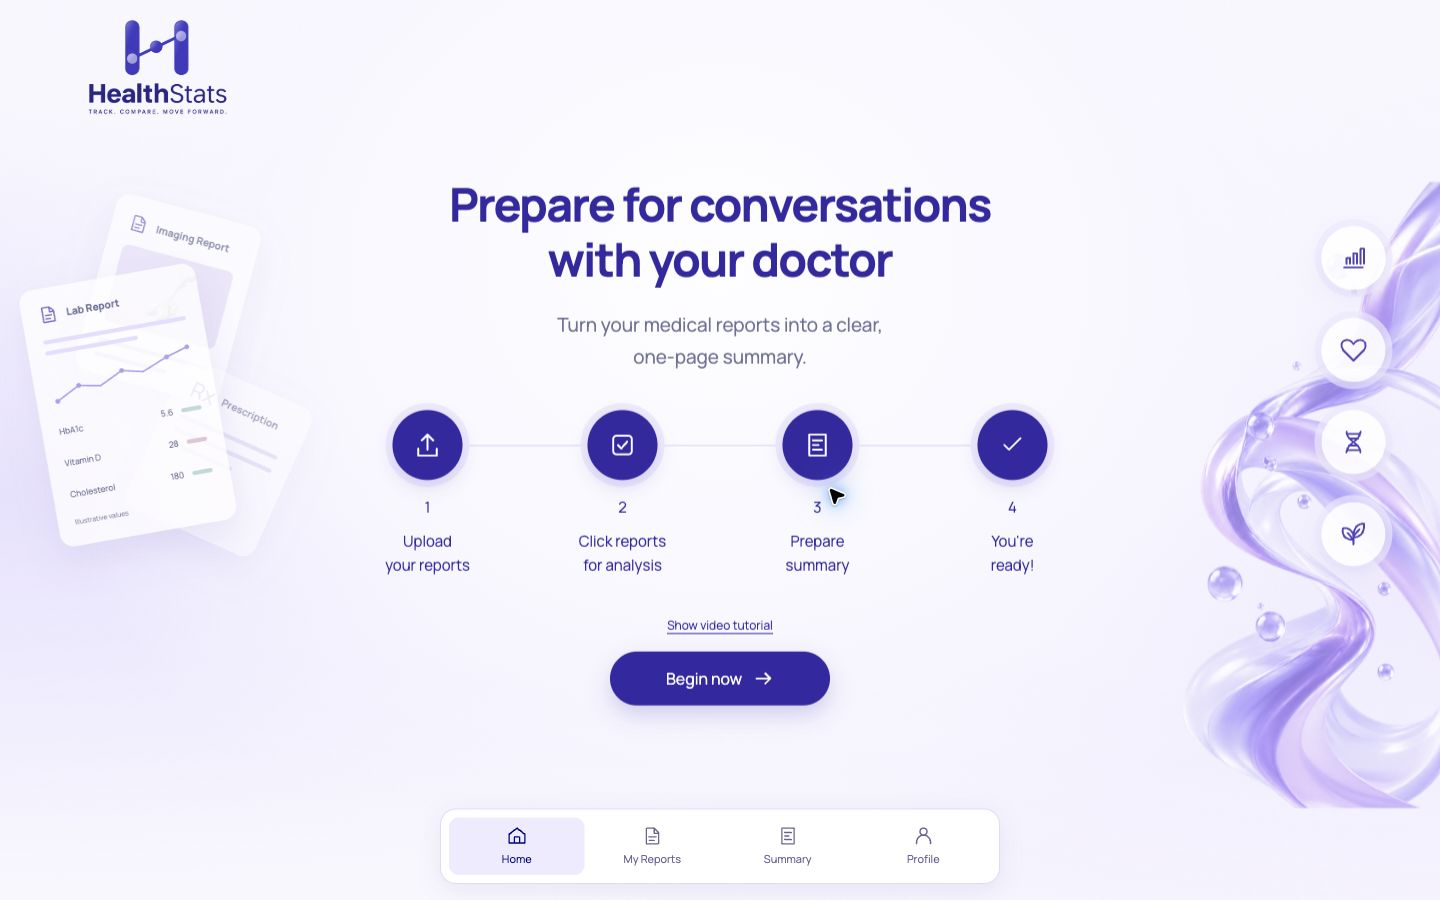
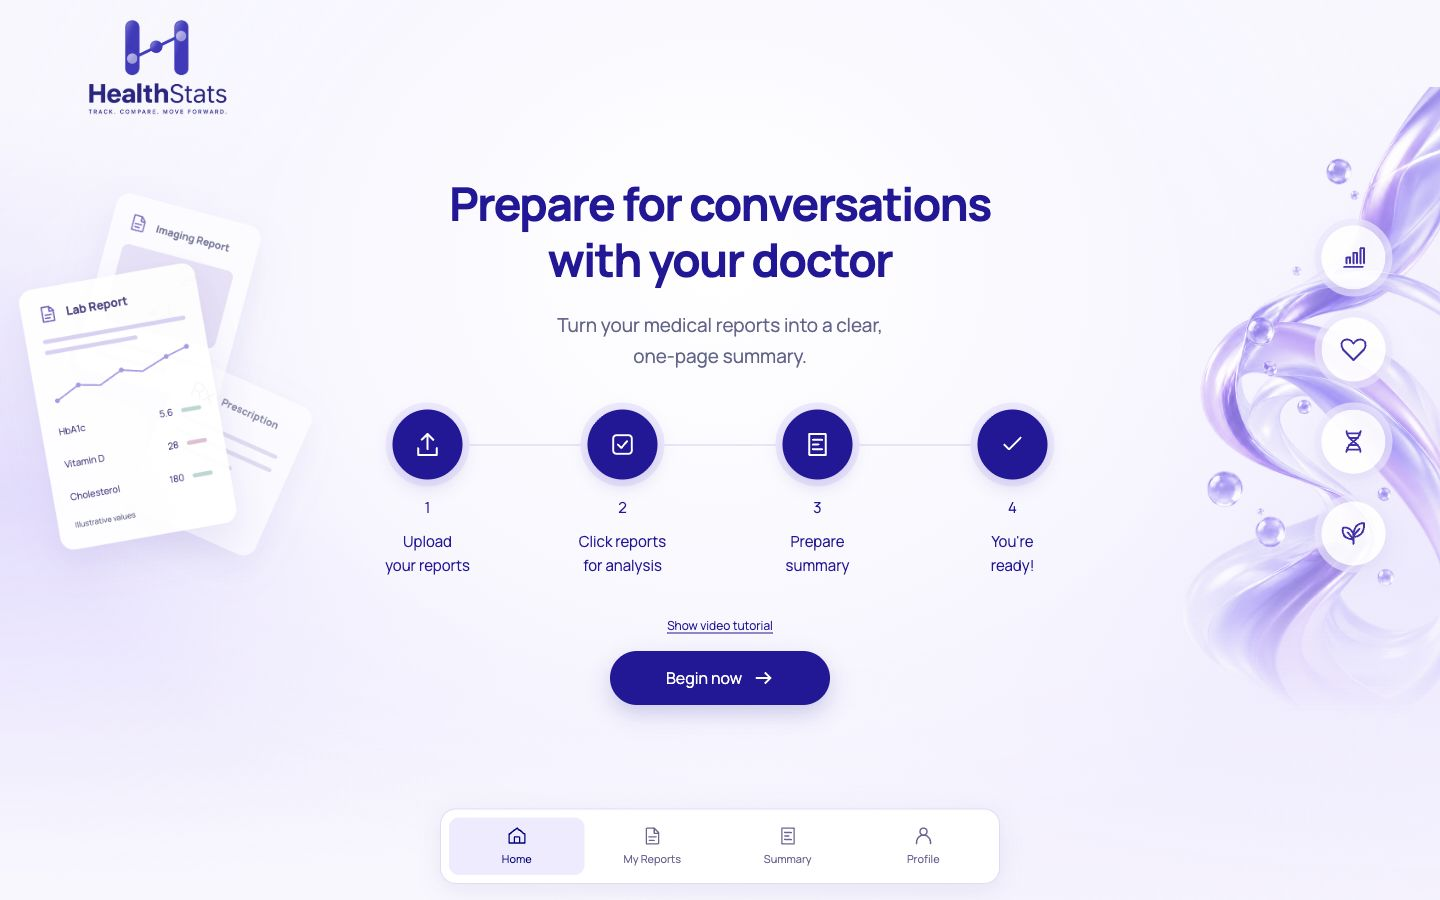
Clarify floating reports and soften the ribbon edge

diff --git a/src/home.css b/src/home.css
@@ -244,3 +244,14 @@ body:has(#home-view:not([hidden])){min-height:100vh}
  .home-resting-copy>p{font-size:19px;line-height:1.65}
  .home-journey{margin-top:38px}
 }
+/* Decorative report details stay readable; fade the image itself, not its slot. */
+.home-floating-lab{background:rgb(255 255 255 / 94%);color:#514689}
+.home-floating-lab header strong{font-size:14px}
+.home-decor-results>div{font-size:11px}
+.home-floating-lab small{color:#62658c;opacity:1;font-size:9px}
+.home-floating-imaging{opacity:.85}
+.home-floating-prescription{opacity:.72}
+.home-floating-lab .home-paper-lines i{background:#d9d1f4}
+@media(min-width:1280px){
+ .home-ribbon-art{position:absolute;top:0;right:0;width:100%;height:auto;object-fit:contain;opacity:.86;mask-image:linear-gradient(to bottom,#000 0%,#000 65%,rgba(0,0,0,.75) 80%,transparent 100%)}
+}

diff --git a/design/homepage-premium.md b/design/homepage-premium.md
@@ -9,3 +9,5 @@ Type: existing Manrope. Desktop headline 38–56px, mobile 26–30px. Body 16–
 Layout: central headline max 800px; horizontal journey max 860px (760px at 1280–1450). Decorations hidden below 1280. Mobile two-column journey below 760. Home overrides scoped to its active view; other pages unchanged.
 Motion: report cluster floats 10px over 9 seconds; glow opacity changes over 24 seconds; hover lift 3–4px. All disabled with reduced-motion preference.
 Asset: public/images/home-glass-ribbons.png generated from the supplied reference using imagegen; transparent 3D glass medium, diffused upper-left lighting. Full generation prompt in home-glass-ribbons.prompt.txt.
+
+Illustration refinement: front report surface uses 94% white opacity with #514689 text; report title 14px, results 11px, sample note 9px. Back cards use 85% / 72% opacity. Ribbon keeps its source aspect ratio; a fade on the image itself begins at 65% of its height and reaches transparent at the lower edge.
